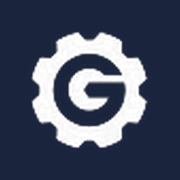
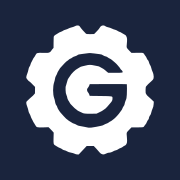
Add files via upload

diff --git a/404.html b/404.html
@@ -48,8 +48,8 @@ document.documentElement.setAttribute("data-theme",t);}catch(e){}})();
 <header>
   <div class="wrap">
     <a class="brand" href="/" aria-label="GCAR — domů">
-      <img class="logo-light" src="/assets/img/logo.png" alt="GCAR" width="200" height="65">
-      <img class="logo-dark" src="/assets/img/logo-inverse.png" alt="" width="200" height="65" aria-hidden="true">
+      <img class="logo-light" src="/assets/img/logo.svg" alt="GCAR" width="200" height="65">
+      <img class="logo-dark" src="/assets/img/logo-inverse.svg" alt="" width="200" height="65" aria-hidden="true">
       <em>náhradní díly</em>
     </a>
     <nav class="main" aria-label="Hlavní navigace">
@@ -111,7 +111,7 @@ document.documentElement.setAttribute("data-theme",t);}catch(e){}})();
   <div class="wrap">
     <div class="fgrid">
       <div>
-        <img src="/assets/img/logo-inverse.png" alt="GCAR">
+        <img src="/assets/img/logo-inverse.svg" alt="GCAR">
         <p style="margin:0">Dovoz náhradních dílů pro osobní a užitkové vozy světových značek a jejich distribuce do autoservisů a obchodů.</p>
       </div>
       <div>

diff --git a/akce/index.html b/akce/index.html
@@ -48,8 +48,8 @@ document.documentElement.setAttribute("data-theme",t);}catch(e){}})();
 <header>
   <div class="wrap">
     <a class="brand" href="/" aria-label="GCAR — domů">
-      <img class="logo-light" src="/assets/img/logo.png" alt="GCAR" width="200" height="65">
-      <img class="logo-dark" src="/assets/img/logo-inverse.png" alt="" width="200" height="65" aria-hidden="true">
+      <img class="logo-light" src="/assets/img/logo.svg" alt="GCAR" width="200" height="65">
+      <img class="logo-dark" src="/assets/img/logo-inverse.svg" alt="" width="200" height="65" aria-hidden="true">
       <em>náhradní díly</em>
     </a>
     <nav class="main" aria-label="Hlavní navigace">
@@ -138,7 +138,7 @@ document.documentElement.setAttribute("data-theme",t);}catch(e){}})();
   <div class="wrap">
     <div class="fgrid">
       <div>
-        <img src="/assets/img/logo-inverse.png" alt="GCAR">
+        <img src="/assets/img/logo-inverse.svg" alt="GCAR">
         <p style="margin:0">Dovoz náhradních dílů pro osobní a užitkové vozy světových značek a jejich distribuce do autoservisů a obchodů.</p>
       </div>
       <div>

diff --git a/autoservis/index.html b/autoservis/index.html
@@ -48,8 +48,8 @@ document.documentElement.setAttribute("data-theme",t);}catch(e){}})();
 <header>
   <div class="wrap">
     <a class="brand" href="/" aria-label="GCAR — domů">
-      <img class="logo-light" src="/assets/img/logo.png" alt="GCAR" width="200" height="65">
-      <img class="logo-dark" src="/assets/img/logo-inverse.png" alt="" width="200" height="65" aria-hidden="true">
+      <img class="logo-light" src="/assets/img/logo.svg" alt="GCAR" width="200" height="65">
+      <img class="logo-dark" src="/assets/img/logo-inverse.svg" alt="" width="200" height="65" aria-hidden="true">
       <em>náhradní díly</em>
     </a>
     <nav class="main" aria-label="Hlavní navigace">
@@ -151,7 +151,7 @@ document.documentElement.setAttribute("data-theme",t);}catch(e){}})();
   <div class="wrap">
     <div class="fgrid">
       <div>
-        <img src="/assets/img/logo-inverse.png" alt="GCAR">
+        <img src="/assets/img/logo-inverse.svg" alt="GCAR">
         <p style="margin:0">Dovoz náhradních dílů pro osobní a užitkové vozy světových značek a jejich distribuce do autoservisů a obchodů.</p>
       </div>
       <div>

diff --git a/index.html b/index.html
@@ -48,8 +48,8 @@ document.documentElement.setAttribute("data-theme",t);}catch(e){}})();
 <header>
   <div class="wrap">
     <a class="brand" href="/" aria-label="GCAR — domů">
-      <img class="logo-light" src="/assets/img/logo.png" alt="GCAR" width="200" height="65">
-      <img class="logo-dark" src="/assets/img/logo-inverse.png" alt="" width="200" height="65" aria-hidden="true">
+      <img class="logo-light" src="/assets/img/logo.svg" alt="GCAR" width="200" height="65">
+      <img class="logo-dark" src="/assets/img/logo-inverse.svg" alt="" width="200" height="65" aria-hidden="true">
       <em>náhradní díly</em>
     </a>
     <nav class="main" aria-label="Hlavní navigace">
@@ -330,7 +330,7 @@ document.documentElement.setAttribute("data-theme",t);}catch(e){}})();
   <div class="wrap">
     <div class="fgrid">
       <div>
-        <img src="/assets/img/logo-inverse.png" alt="GCAR">
+        <img src="/assets/img/logo-inverse.svg" alt="GCAR">
         <p style="margin:0">Dovoz náhradních dílů pro osobní a užitkové vozy světových značek a jejich distribuce do autoservisů a obchodů.</p>
       </div>
       <div>

diff --git a/kontakt/index.html b/kontakt/index.html
@@ -48,8 +48,8 @@ document.documentElement.setAttribute("data-theme",t);}catch(e){}})();
 <header>
   <div class="wrap">
     <a class="brand" href="/" aria-label="GCAR — domů">
-      <img class="logo-light" src="/assets/img/logo.png" alt="GCAR" width="200" height="65">
-      <img class="logo-dark" src="/assets/img/logo-inverse.png" alt="" width="200" height="65" aria-hidden="true">
+      <img class="logo-light" src="/assets/img/logo.svg" alt="GCAR" width="200" height="65">
+      <img class="logo-dark" src="/assets/img/logo-inverse.svg" alt="" width="200" height="65" aria-hidden="true">
       <em>náhradní díly</em>
     </a>
     <nav class="main" aria-label="Hlavní navigace">
@@ -178,7 +178,7 @@ document.documentElement.setAttribute("data-theme",t);}catch(e){}})();
   <div class="wrap">
     <div class="fgrid">
       <div>
-        <img src="/assets/img/logo-inverse.png" alt="GCAR">
+        <img src="/assets/img/logo-inverse.svg" alt="GCAR">
         <p style="margin:0">Dovoz náhradních dílů pro osobní a užitkové vozy světových značek a jejich distribuce do autoservisů a obchodů.</p>
       </div>
       <div>

diff --git a/lpg/index.html b/lpg/index.html
@@ -48,8 +48,8 @@ document.documentElement.setAttribute("data-theme",t);}catch(e){}})();
 <header>
   <div class="wrap">
     <a class="brand" href="/" aria-label="GCAR — domů">
-      <img class="logo-light" src="/assets/img/logo.png" alt="GCAR" width="200" height="65">
-      <img class="logo-dark" src="/assets/img/logo-inverse.png" alt="" width="200" height="65" aria-hidden="true">
+      <img class="logo-light" src="/assets/img/logo.svg" alt="GCAR" width="200" height="65">
+      <img class="logo-dark" src="/assets/img/logo-inverse.svg" alt="" width="200" height="65" aria-hidden="true">
       <em>náhradní díly</em>
     </a>
     <nav class="main" aria-label="Hlavní navigace">
@@ -139,7 +139,7 @@ document.documentElement.setAttribute("data-theme",t);}catch(e){}})();
   <div class="wrap">
     <div class="fgrid">
       <div>
-        <img src="/assets/img/logo-inverse.png" alt="GCAR">
+        <img src="/assets/img/logo-inverse.svg" alt="GCAR">
         <p style="margin:0">Dovoz náhradních dílů pro osobní a užitkové vozy světových značek a jejich distribuce do autoservisů a obchodů.</p>
       </div>
       <div>

diff --git a/o-nas/index.html b/o-nas/index.html
@@ -48,8 +48,8 @@ document.documentElement.setAttribute("data-theme",t);}catch(e){}})();
 <header>
   <div class="wrap">
     <a class="brand" href="/" aria-label="GCAR — domů">
-      <img class="logo-light" src="/assets/img/logo.png" alt="GCAR" width="200" height="65">
-      <img class="logo-dark" src="/assets/img/logo-inverse.png" alt="" width="200" height="65" aria-hidden="true">
+      <img class="logo-light" src="/assets/img/logo.svg" alt="GCAR" width="200" height="65">
+      <img class="logo-dark" src="/assets/img/logo-inverse.svg" alt="" width="200" height="65" aria-hidden="true">
       <em>náhradní díly</em>
     </a>
     <nav class="main" aria-label="Hlavní navigace">
@@ -144,7 +144,7 @@ document.documentElement.setAttribute("data-theme",t);}catch(e){}})();
   <div class="wrap">
     <div class="fgrid">
       <div>
-        <img src="/assets/img/logo-inverse.png" alt="GCAR">
+        <img src="/assets/img/logo-inverse.svg" alt="GCAR">
         <p style="margin:0">Dovoz náhradních dílů pro osobní a užitkové vozy světových značek a jejich distribuce do autoservisů a obchodů.</p>
       </div>
       <div>

diff --git a/pujcovna/index.html b/pujcovna/index.html
@@ -48,8 +48,8 @@ document.documentElement.setAttribute("data-theme",t);}catch(e){}})();
 <header>
   <div class="wrap">
     <a class="brand" href="/" aria-label="GCAR — domů">
-      <img class="logo-light" src="/assets/img/logo.png" alt="GCAR" width="200" height="65">
-      <img class="logo-dark" src="/assets/img/logo-inverse.png" alt="" width="200" height="65" aria-hidden="true">
+      <img class="logo-light" src="/assets/img/logo.svg" alt="GCAR" width="200" height="65">
+      <img class="logo-dark" src="/assets/img/logo-inverse.svg" alt="" width="200" height="65" aria-hidden="true">
       <em>náhradní díly</em>
     </a>
     <nav class="main" aria-label="Hlavní navigace">
@@ -143,7 +143,7 @@ document.documentElement.setAttribute("data-theme",t);}catch(e){}})();
   <div class="wrap">
     <div class="fgrid">
       <div>
-        <img src="/assets/img/logo-inverse.png" alt="GCAR">
+        <img src="/assets/img/logo-inverse.svg" alt="GCAR">
         <p style="margin:0">Dovoz náhradních dílů pro osobní a užitkové vozy světových značek a jejich distribuce do autoservisů a obchodů.</p>
       </div>
       <div>

diff --git a/sortiment/chemie/index.html b/sortiment/chemie/index.html
@@ -48,8 +48,8 @@ document.documentElement.setAttribute("data-theme",t);}catch(e){}})();
 <header>
   <div class="wrap">
     <a class="brand" href="/" aria-label="GCAR — domů">
-      <img class="logo-light" src="/assets/img/logo.png" alt="GCAR" width="200" height="65">
-      <img class="logo-dark" src="/assets/img/logo-inverse.png" alt="" width="200" height="65" aria-hidden="true">
+      <img class="logo-light" src="/assets/img/logo.svg" alt="GCAR" width="200" height="65">
+      <img class="logo-dark" src="/assets/img/logo-inverse.svg" alt="" width="200" height="65" aria-hidden="true">
       <em>náhradní díly</em>
     </a>
     <nav class="main" aria-label="Hlavní navigace">
@@ -161,7 +161,7 @@ document.documentElement.setAttribute("data-theme",t);}catch(e){}})();
   <div class="wrap">
     <div class="fgrid">
       <div>
-        <img src="/assets/img/logo-inverse.png" alt="GCAR">
+        <img src="/assets/img/logo-inverse.svg" alt="GCAR">
         <p style="margin:0">Dovoz náhradních dílů pro osobní a užitkové vozy světových značek a jejich distribuce do autoservisů a obchodů.</p>
       </div>
       <div>

diff --git a/sortiment/index.html b/sortiment/index.html
@@ -48,8 +48,8 @@ document.documentElement.setAttribute("data-theme",t);}catch(e){}})();
 <header>
   <div class="wrap">
     <a class="brand" href="/" aria-label="GCAR — domů">
-      <img class="logo-light" src="/assets/img/logo.png" alt="GCAR" width="200" height="65">
-      <img class="logo-dark" src="/assets/img/logo-inverse.png" alt="" width="200" height="65" aria-hidden="true">
+      <img class="logo-light" src="/assets/img/logo.svg" alt="GCAR" width="200" height="65">
+      <img class="logo-dark" src="/assets/img/logo-inverse.svg" alt="" width="200" height="65" aria-hidden="true">
       <em>náhradní díly</em>
     </a>
     <nav class="main" aria-label="Hlavní navigace">
@@ -161,7 +161,7 @@ document.documentElement.setAttribute("data-theme",t);}catch(e){}})();
   <div class="wrap">
     <div class="fgrid">
       <div>
-        <img src="/assets/img/logo-inverse.png" alt="GCAR">
+        <img src="/assets/img/logo-inverse.svg" alt="GCAR">
         <p style="margin:0">Dovoz náhradních dílů pro osobní a užitkové vozy světových značek a jejich distribuce do autoservisů a obchodů.</p>
       </div>
       <div>

diff --git a/sortiment/nahradni-dily/index.html b/sortiment/nahradni-dily/index.html
@@ -48,8 +48,8 @@ document.documentElement.setAttribute("data-theme",t);}catch(e){}})();
 <header>
   <div class="wrap">
     <a class="brand" href="/" aria-label="GCAR — domů">
-      <img class="logo-light" src="/assets/img/logo.png" alt="GCAR" width="200" height="65">
-      <img class="logo-dark" src="/assets/img/logo-inverse.png" alt="" width="200" height="65" aria-hidden="true">
+      <img class="logo-light" src="/assets/img/logo.svg" alt="GCAR" width="200" height="65">
+      <img class="logo-dark" src="/assets/img/logo-inverse.svg" alt="" width="200" height="65" aria-hidden="true">
       <em>náhradní díly</em>
     </a>
     <nav class="main" aria-label="Hlavní navigace">
@@ -148,7 +148,7 @@ document.documentElement.setAttribute("data-theme",t);}catch(e){}})();
   <div class="wrap">
     <div class="fgrid">
       <div>
-        <img src="/assets/img/logo-inverse.png" alt="GCAR">
+        <img src="/assets/img/logo-inverse.svg" alt="GCAR">
         <p style="margin:0">Dovoz náhradních dílů pro osobní a užitkové vozy světových značek a jejich distribuce do autoservisů a obchodů.</p>
       </div>
       <div>

diff --git a/sortiment/ochranne-prostredky/index.html b/sortiment/ochranne-prostredky/index.html
@@ -48,8 +48,8 @@ document.documentElement.setAttribute("data-theme",t);}catch(e){}})();
 <header>
   <div class="wrap">
     <a class="brand" href="/" aria-label="GCAR — domů">
-      <img class="logo-light" src="/assets/img/logo.png" alt="GCAR" width="200" height="65">
-      <img class="logo-dark" src="/assets/img/logo-inverse.png" alt="" width="200" height="65" aria-hidden="true">
+      <img class="logo-light" src="/assets/img/logo.svg" alt="GCAR" width="200" height="65">
+      <img class="logo-dark" src="/assets/img/logo-inverse.svg" alt="" width="200" height="65" aria-hidden="true">
       <em>náhradní díly</em>
     </a>
     <nav class="main" aria-label="Hlavní navigace">
@@ -143,7 +143,7 @@ document.documentElement.setAttribute("data-theme",t);}catch(e){}})();
   <div class="wrap">
     <div class="fgrid">
       <div>
-        <img src="/assets/img/logo-inverse.png" alt="GCAR">
+        <img src="/assets/img/logo-inverse.svg" alt="GCAR">
         <p style="margin:0">Dovoz náhradních dílů pro osobní a užitkové vozy světových značek a jejich distribuce do autoservisů a obchodů.</p>
       </div>
       <div>
